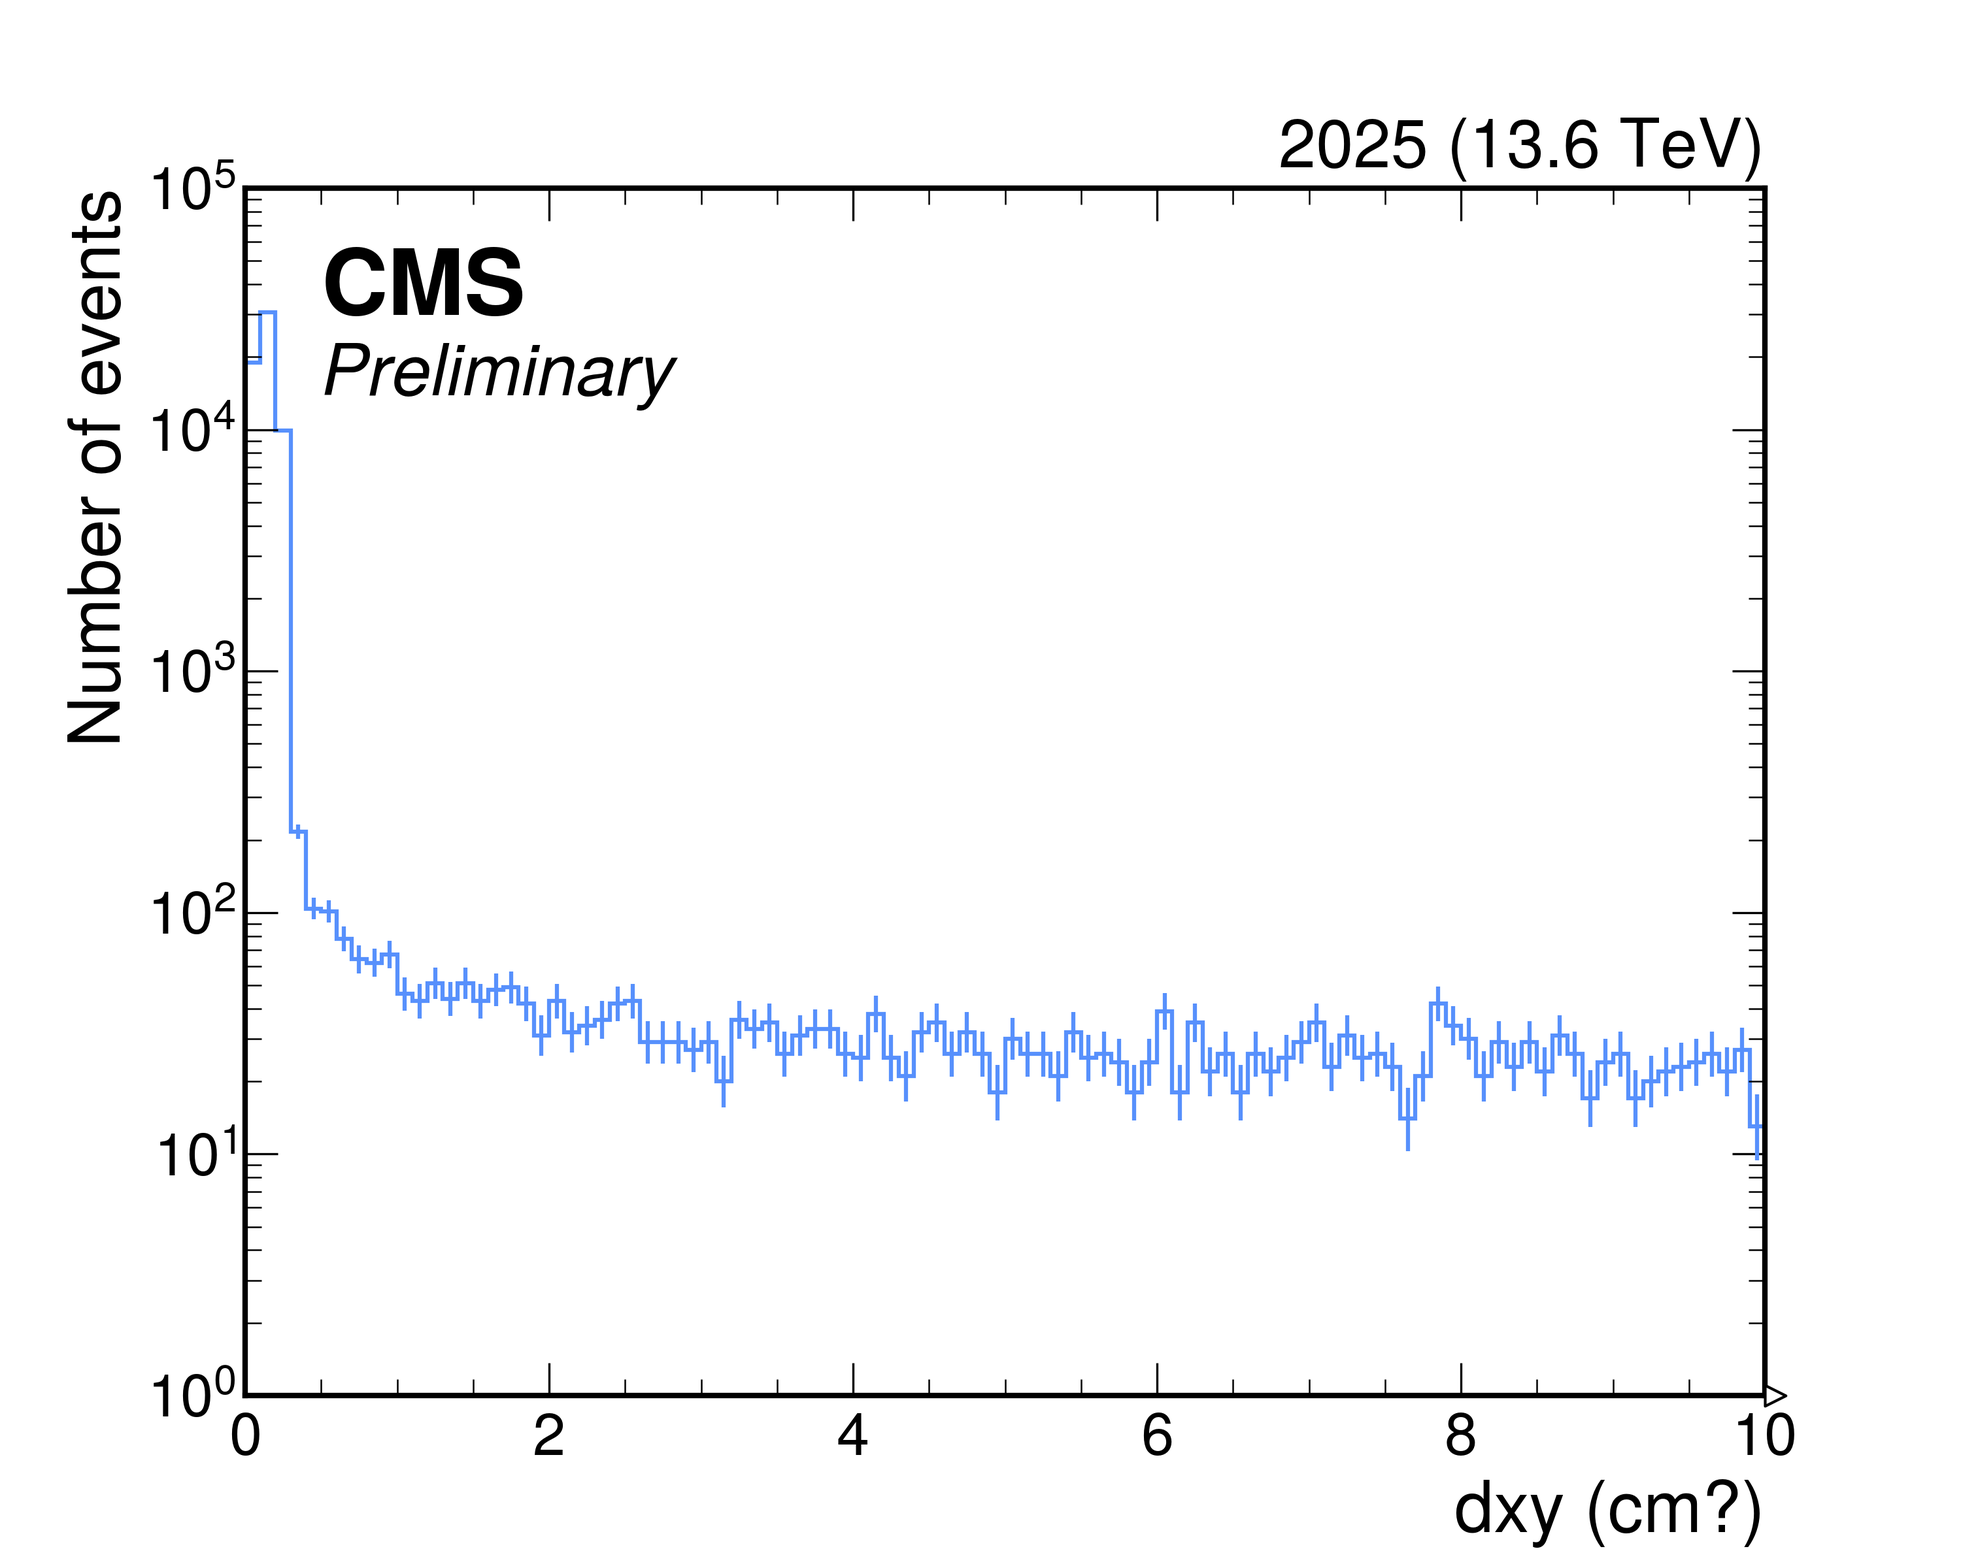
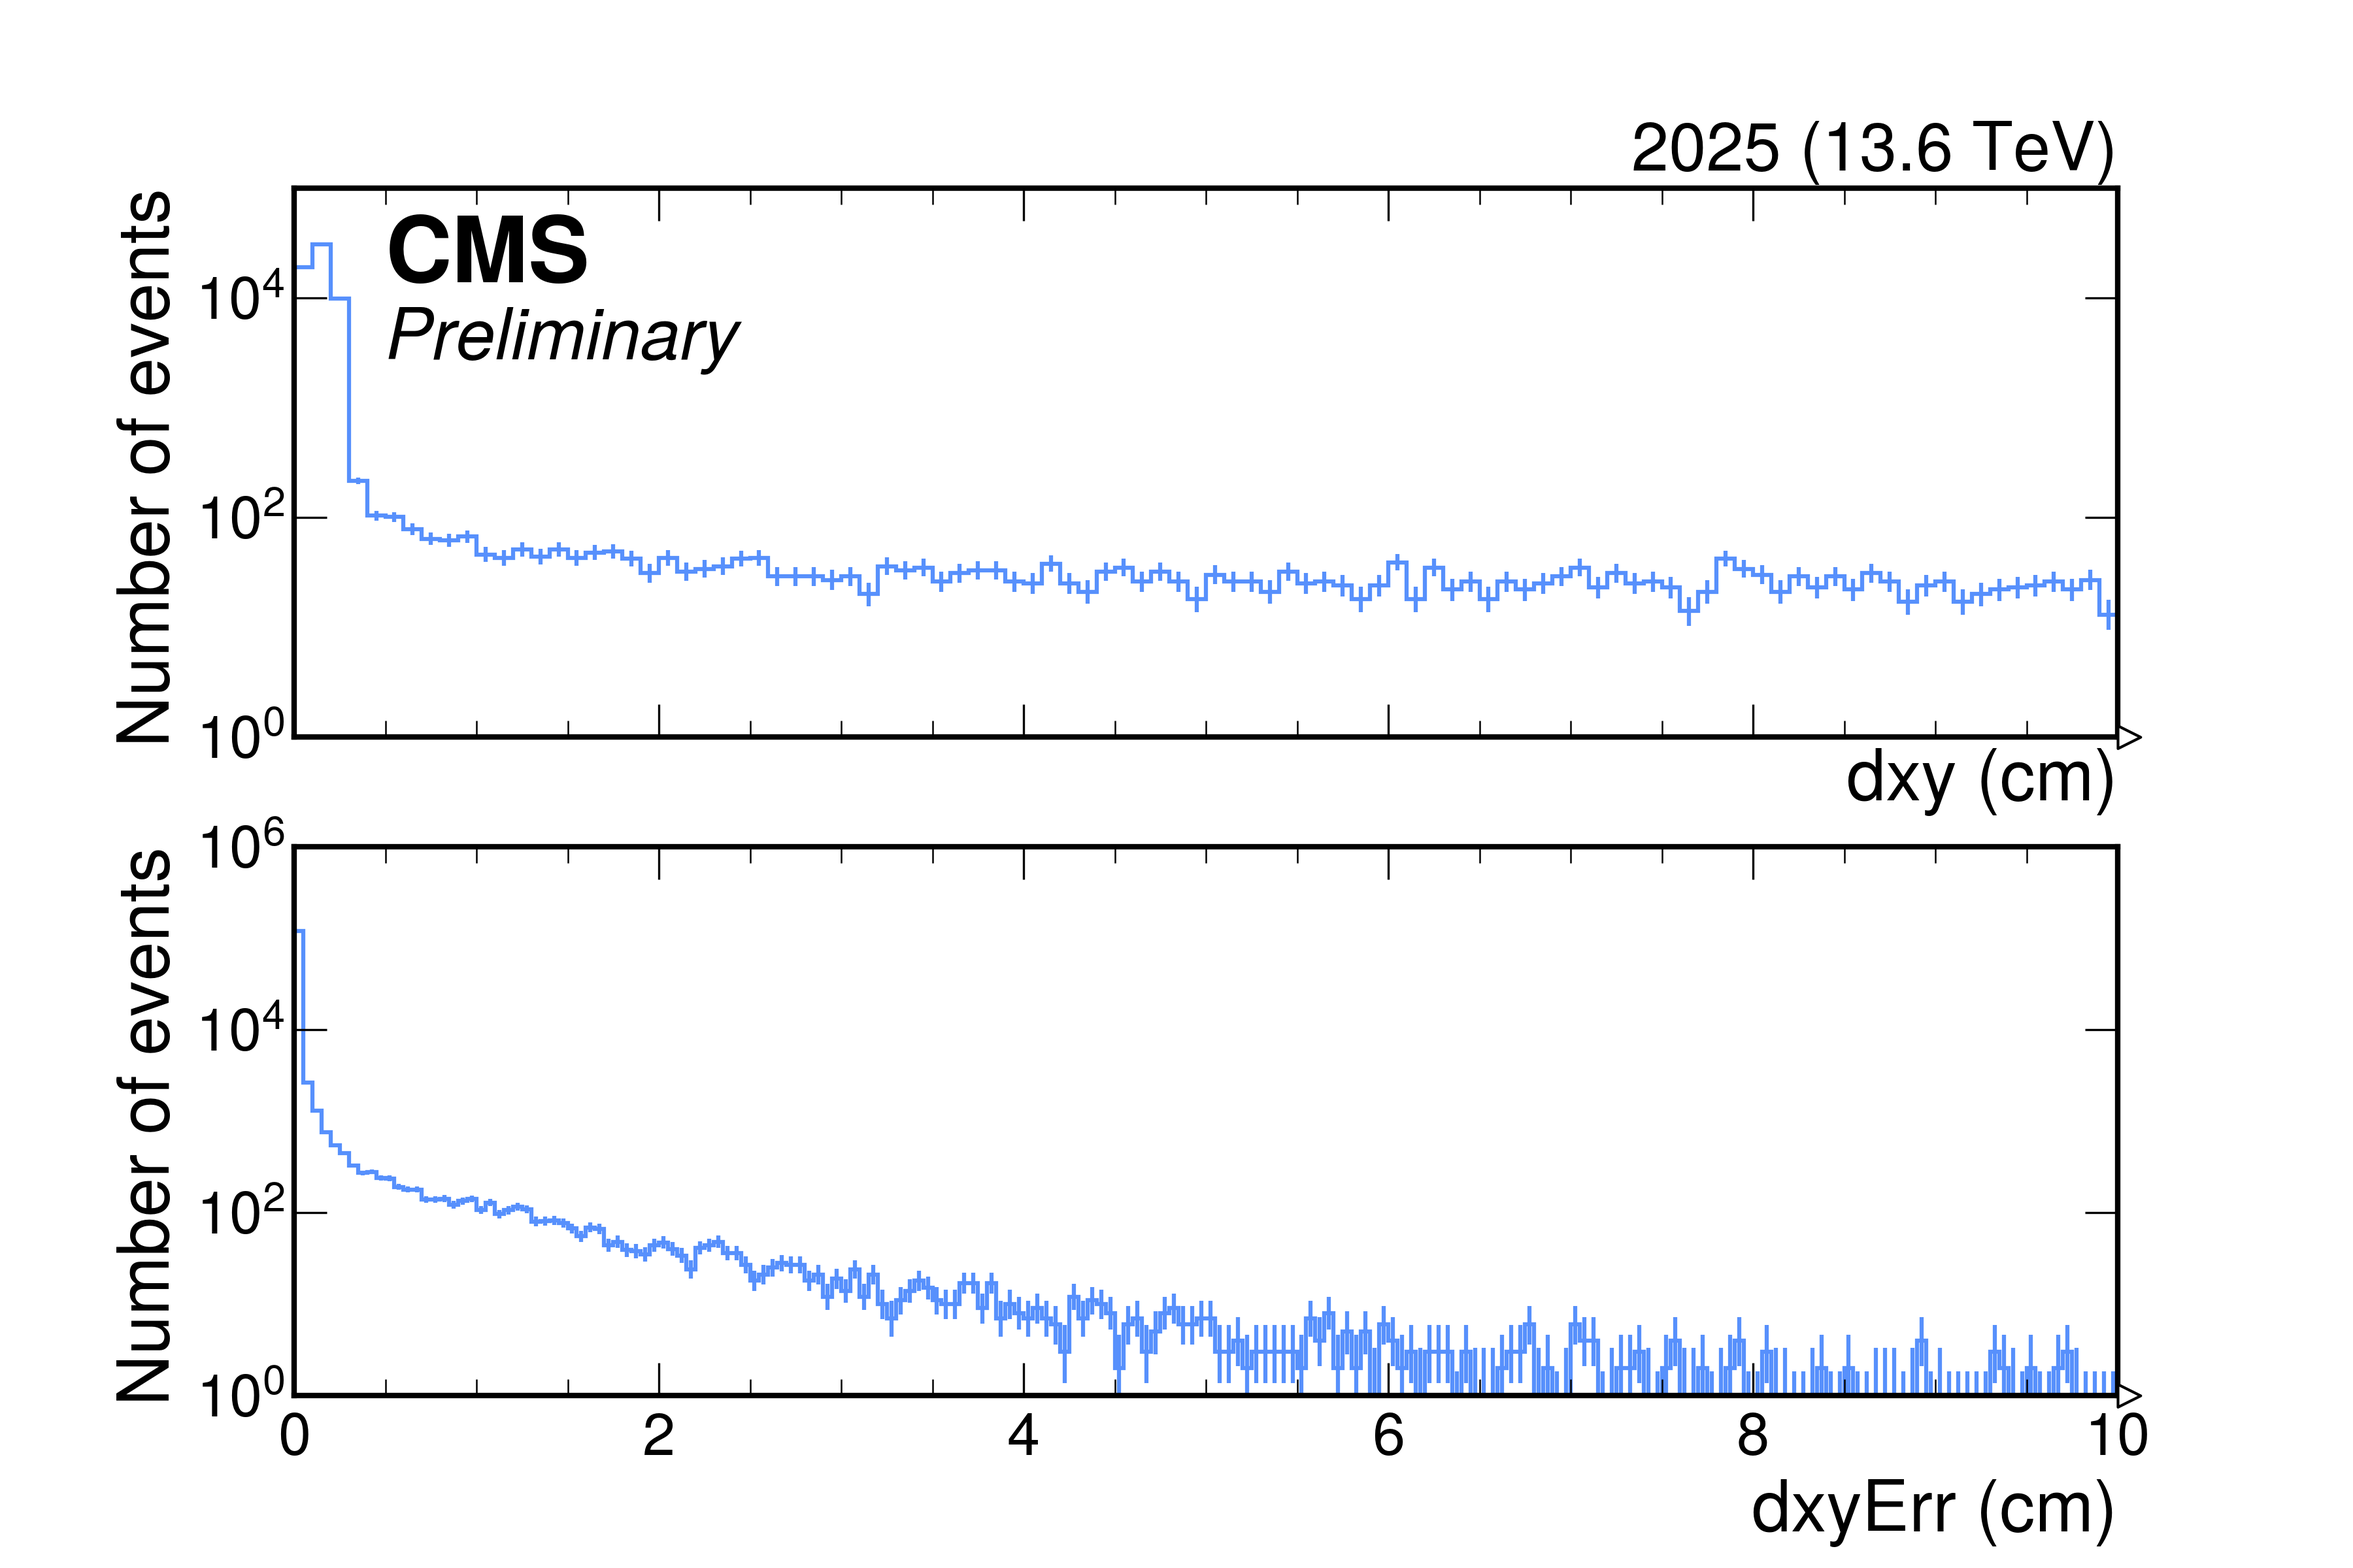
Plot dxyError

diff --git a/draw.py b/draw.py
@@ -35,7 +35,7 @@ with open (outdir+"/large_pickles/events%sLxyPickle.pkl"%(MUON), "rb") as pickle
     h_lxy_sidebands = pickle.load(pickleIn)
     h_mass = pickle.load(pickleIn)
     h_dxy = pickle.load(pickleIn)
-    h_dxyErr = pickle.load
+    h_dxyErr = pickle.load(pickleIn)
 
 # normalize histograms
 pk_norm = h_lxy_peak.values().sum()
@@ -175,8 +175,9 @@ fig.savefig("img/hist_mass_%s.png"%(MUON), dpi=300)
 
 
 #####
-print("Plotting dxy")
-fig, ax = plt.subplots(figsize=(10,8))
+print("Plotting dxy/dxyerr")
+fig, axes = plt.subplots(2, 1, gridspec_kw={'height_ratios': [1, 1], 'hspace': 0.2}, figsize=(12, 8), sharex=True)
+ax = axes[0]
 hep.cms.label("Preliminary", data=True, year='2025', com='13.6', ax=ax, loc=2)
 h_dxy.plot(ax=ax)
 ax.set_xlim(0, 10)
@@ -186,10 +187,23 @@ yMin = 1
 yMax = 10**np.ceil(np.log10(bin_values.max()))
 
 ax.set_ylim(yMin, yMax)
-ax.set_xlabel("dxy (cm?)")
+ax.set_xlabel("dxy (cm)")
+ax.set_ylabel("Number of events")
+ax.set_yscale("log")
+
+ax = axes[1]
+# hep.cms.label("Preliminary", data=True, year='2025', com='13.6', ax=ax, loc=2)
+h_dxyErr.plot(ax=ax)
+ax.set_xlim(0, 10)
+bin_values = h_dxyErr.values()
+
+yMin = 1
+yMax = 10**np.ceil(np.log10(bin_values.max()))
+
+ax.set_ylim(yMin, yMax)
+ax.set_xlabel("dxyErr (cm)")
 ax.set_ylabel("Number of events")
 
 # ax.set_xscale("log")
 ax.set_yscale("log")
-
 fig.savefig("img/hist_dxy_%s.png"%(MUON), dpi=300)
